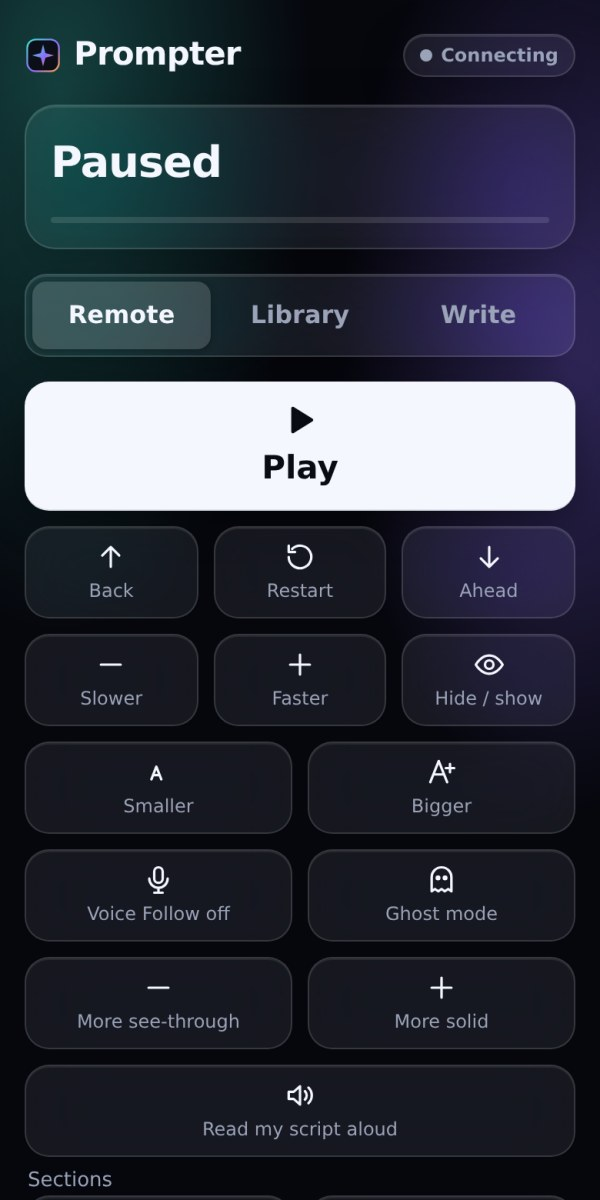
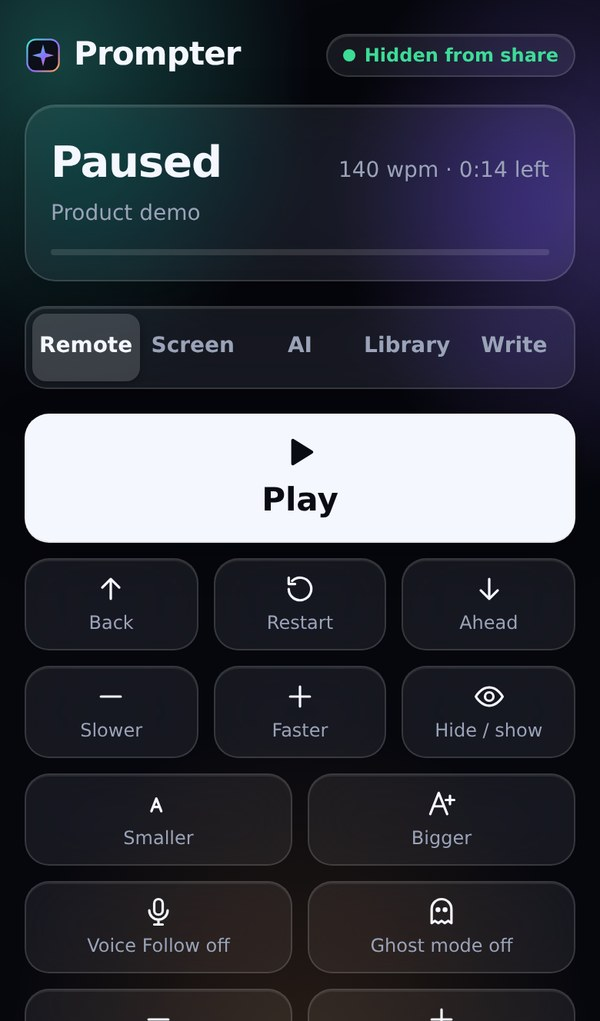
2.5.1: website + README for the AI assistant, screen view and screenshots; chat anchors to newest message

diff --git a/docs/index.html b/docs/index.html
@@ -4,10 +4,10 @@
 <meta charset="utf-8">
 <meta name="viewport" content="width=device-width,initial-scale=1">
 <title>Glass Prompter: a teleprompter under your webcam</title>
-<meta name="description" content="Free see-through teleprompter for Windows and macOS. Sits under your webcam, follows your voice word by word, reads aloud in a natural voice, and stays private on screen share.">
+<meta name="description" content="Free see-through teleprompter for Windows and macOS. Sits under your webcam, follows your voice word by word, reads aloud, and stays private on screen share. Built-in AI assistant that can see your screen, plus live screen view and screenshots on your phone.">
 <meta name="theme-color" content="#06070d">
 <meta property="og:title" content="Glass Prompter">
-<meta property="og:description" content="Read your script. Keep eye contact. A free teleprompter that follows your voice, for Windows and Mac.">
+<meta property="og:description" content="Read your script. Keep eye contact. A free teleprompter that follows your voice, with an AI assistant that can see your screen. For Windows and Mac.">
 <meta property="og:image" content="https://tokunboajayi.github.io/glass-prompter/img/hero.jpg">
 <meta property="og:type" content="website">
 <meta name="twitter:card" content="summary_large_image">
@@ -68,6 +68,8 @@ h2{font-size:clamp(28px,3.6vw,40px);letter-spacing:-.025em;line-height:1.15;marg
 .card{padding:24px}
 .card h3{font-size:17px;margin:14px 0 6px;font-weight:600}
 .card p{margin:0;color:var(--muted);font-size:15px}
+.new{display:inline-block;margin-left:6px;padding:1px 8px;border-radius:999px;font-size:11px;font-weight:600;color:var(--aqua);
+  background:rgba(64,232,208,.12);vertical-align:2px}
 .ic{width:40px;height:40px;border-radius:10px;display:grid;place-items:center;background:rgba(64,232,208,.1);color:var(--aqua)}
 .ic svg{width:22px;height:22px;fill:none;stroke:currentColor;stroke-width:1.75;stroke-linecap:round;stroke-linejoin:round}
 .split{display:grid;grid-template-columns:1fr 1.25fr;gap:48px;align-items:center}
@@ -146,6 +148,9 @@ footer .wrap{display:flex;justify-content:space-between;gap:16px;flex-wrap:wrap}
   <symbol id="i-chart" viewBox="0 0 24 24"><path d="M4 20V10M10 20V4M16 20v-7M22 20H2"/></symbol>
   <symbol id="i-win" viewBox="0 0 24 24"><path d="M3 5.5l7.5-1v7H3zM12 4.3L21 3v8.5h-9zM3 12.5h7.5v7l-7.5-1zM12 12.5h9V21l-9-1.3z" fill="currentColor" stroke="none"/></symbol>
   <symbol id="i-apple" viewBox="0 0 24 24"><path d="M16.5 12.6c0-2.4 2-3.5 2-3.6-1.1-1.6-2.8-1.8-3.4-1.8-1.4-.2-2.8.8-3.5.8s-1.9-.8-3.1-.8C6.9 7.2 5.4 8.1 4.6 9.6c-1.7 2.9-.4 7.3 1.2 9.7.8 1.2 1.8 2.5 3 2.4 1.2 0 1.7-.8 3.1-.8s1.9.8 3.1.8 2.1-1.2 2.8-2.4c.9-1.3 1.3-2.6 1.3-2.7 0 0-2.6-1-2.6-4zM14.2 5.5c.6-.8 1.1-1.9 1-3-.9 0-2.1.6-2.8 1.4-.6.7-1.1 1.8-1 2.9 1.1.1 2.1-.5 2.8-1.3z" fill="currentColor" stroke="none"/></symbol>
+  <symbol id="i-spark" viewBox="0 0 24 24"><path d="M12 3l1.8 6.2L20 11l-6.2 1.8L12 19l-1.8-6.2L4 11l6.2-1.8z"/></symbol>
+  <symbol id="i-screen" viewBox="0 0 24 24"><rect x="3" y="4" width="18" height="12" rx="2"/><path d="M9 20h6M12 16v4"/></symbol>
+  <symbol id="i-camera" viewBox="0 0 24 24"><rect x="3" y="7" width="18" height="13" rx="2.5"/><path d="M8.5 7l1.5-3h4l1.5 3"/><circle cx="12" cy="13.5" r="3.3"/></symbol>
   <symbol id="i-copy" viewBox="0 0 24 24"><rect x="8" y="8" width="12" height="12" rx="2.5"/><path d="M16 8V6.5A2.5 2.5 0 0 0 13.5 4h-7A2.5 2.5 0 0 0 4 6.5v7A2.5 2.5 0 0 0 6.5 16H8"/></symbol>
   <symbol id="i-check" viewBox="0 0 24 24"><path d="M5 12.5l4.5 4.5L19 7.5"/></symbol>
   <symbol id="i-down" viewBox="0 0 24 24"><path d="M12 4v12M6 11l6 6 6-6M5 20h14" fill="none" stroke="currentColor" stroke-width="2" stroke-linecap="round" stroke-linejoin="round"/></symbol>
@@ -156,6 +161,7 @@ footer .wrap{display:flex;justify-content:space-between;gap:16px;flex-wrap:wrap}
     <a class="brand" href="#"><img src="img/icon.svg" alt="">Glass Prompter</a>
     <div class="nav-links">
       <a class="hide-sm" href="#features">Features</a>
+      <a class="hide-sm" href="#ai">AI assistant</a>
       <a class="hide-sm" href="#compare">Compare</a>
       <a class="hide-sm" href="#shortcuts">Shortcuts</a>
       <a href="#download">Download</a>
@@ -168,7 +174,7 @@ footer .wrap{display:flex;justify-content:space-between;gap:16px;flex-wrap:wrap}
   <header class="hero">
     <span class="eyebrow"><i></i><span id="ver">Free for Windows and Mac</span></span>
     <h1>Read your script. Keep eye contact.</h1>
-    <p class="sub">A see-through teleprompter that sits right under your webcam, follows your voice word by word, and stays off the screen share.</p>
+    <p class="sub">A see-through teleprompter that sits right under your webcam, follows your voice word by word, and stays off the screen share. Now with an AI assistant that can see your screen.</p>
     <div class="cta">
       <a id="primary" class="btn primary" href="https://github.com/tokunboajayi/glass-prompter/releases/latest">
         <svg aria-hidden="true"><use href="#i-down"/></svg><span id="primaryText">Download free</span></a>
@@ -191,11 +197,17 @@ footer .wrap{display:flex;justify-content:space-between;gap:16px;flex-wrap:wrap}
       <div class="card"><div class="ic"><svg aria-hidden="true"><use href="#i-ghost"/></svg></div>
         <h3>Ghost mode</h3><p>Clicks pass straight through to the app behind. Pick how see-through it is, from 15% to solid, with <kbd>Ctrl</kbd> <kbd>Alt</kbd> <kbd>[</kbd> <kbd>]</kbd>.</p></div>
       <div class="card"><div class="ic"><svg aria-hidden="true"><use href="#i-shield"/></svg></div>
-        <h3>Private on screen share</h3><p>Hidden from Zoom, Teams, Meet and OBS on Windows. On macOS 15+ it tells you the truth: share a window, not your whole screen.</p></div>
+        <h3>Private on screen share</h3><p>The prompter and every window it opens stay out of Zoom, Teams, Meet, OBS and screenshots on Windows. On macOS 15+ it tells you the truth: share a window, not your whole screen.</p></div>
       <div class="card"><div class="ic"><svg aria-hidden="true"><use href="#i-phone"/></svg></div>
-        <h3>Phone remote</h3><p>Scan a QR code and your phone becomes the remote: play, speed, sections, ghost level, and sending new scripts. PIN protected.</p></div>
+        <h3>Phone remote</h3><p>Scan a QR code and your phone becomes the remote: play, speed, sections, ghost level, new scripts, and a live view of your screen. PIN protected.</p></div>
       <div class="card"><div class="ic"><svg aria-hidden="true"><use href="#i-chart"/></svg></div>
         <h3>Rehearsal coach</h3><p>After each practice run you get your pace, filler words, long pauses, skipped lines and a score you can watch improve.</p></div>
+      <div class="card"><div class="ic"><svg aria-hidden="true"><use href="#i-spark"/></svg></div>
+        <h3>AI assistant <span class="new">New</span></h3><p>Ask anything and get a straight answer. It can look at your screen, search the web, and send its answer to the prompter. Press <kbd>A</kbd>, or use your phone.</p></div>
+      <div class="card"><div class="ic"><svg aria-hidden="true"><use href="#i-screen"/></svg></div>
+        <h3>Your screen on your phone <span class="new">New</span></h3><p>See your computer's screen live on your phone, about every 1.5 seconds. Pinch to zoom, pause, or save a full-size copy.</p></div>
+      <div class="card"><div class="ic"><svg aria-hidden="true"><use href="#i-camera"/></svg></div>
+        <h3>One-key screenshots <span class="new">New</span></h3><p>Press <kbd>S</kbd> to save a full-resolution screenshot to Pictures and copy it. The prompter never appears in it.</p></div>
     </div>
   </div>
 </section>
@@ -215,6 +227,23 @@ footer .wrap{display:flex;justify-content:space-between;gap:16px;flex-wrap:wrap}
   </div>
 </section>
 
+<section id="ai">
+  <div class="wrap split">
+    <div>
+      <h2>An AI that sees what you see</h2>
+      <p class="lead">Stuck on a slide, an error or a question mid-call? Ask. Claude looks at your screen and your script, and answers in seconds.</p>
+      <ul class="points">
+        <li><b>Answers anything.</b> Work, study, code, numbers, writing, the news. It searches the web when the answer depends on recent facts.</li>
+        <li><b>Sees your screen.</b> Keep <i>Include my screen</i> ticked and it reads what's in front of you. Glass Prompter's own windows never appear in that picture.</li>
+        <li><b>Straight to the prompter.</b> Tap <i>Send to prompter</i> and read the answer out, word for word.</li>
+        <li><b>On your PC or your phone.</b> Press <kbd>A</kbd> on the prompter, or open the AI tab on the phone remote.</li>
+        <li><b>Your key, your data.</b> Bring your own Anthropic API key. It stays on your computer, never reaches the phone, and nothing is sent until you press Send.</li>
+      </ul>
+    </div>
+    <img src="img/assistant.jpg" width="2400" height="1400" alt="The AI assistant window over a presentation slide, suggesting what to say about Q3 revenue and offering Send to prompter" loading="lazy">
+  </div>
+</section>
+
 <section id="compare">
   <div class="wrap">
     <h2>How it compares</h2>
@@ -228,6 +257,7 @@ footer .wrap{display:flex;justify-content:space-between;gap:16px;flex-wrap:wrap}
           <tr><td>Mic drops mid-take</td><td class="us">Reconnects by itself</td><td>Often freezes</td><td>Varies</td></tr>
           <tr><td>Screen share status</td><td class="us">Honest badge per OS</td><td>"Invisible" claims</td><td>Often undocumented on macOS 15+</td></tr>
           <tr><td>Natural read-aloud</td><td class="us">Built in, offline</td><td>Rare</td><td>Rare</td></tr>
+          <tr><td>AI assistant</td><td class="us">Sees your screen, answers anything, on PC and phone</td><td>Script rewriting at most</td><td>Rare</td></tr>
           <tr><td>Your scripts</td><td class="us">Daily backups and export</td><td>Lost-script reports are common</td><td>Varies</td></tr>
           <tr><td>Price</td><td class="us">Free</td><td>Subscription</td><td>$30 to $40</td></tr>
         </tbody>
@@ -238,14 +268,16 @@ footer .wrap{display:flex;justify-content:space-between;gap:16px;flex-wrap:wrap}
 
 <section>
   <div class="wrap split">
-    <img src="img/phone.jpg" width="600" height="1200" alt="The phone remote: play, speed, ghost level, sections and read aloud" loading="lazy" style="max-width:340px;justify-self:center">
+    <img src="img/phone-ai.jpg" width="1700" height="1250" alt="Two phones: the Screen tab showing the computer's slide live, and the AI tab answering what to say about it" loading="lazy">
     <div>
       <h2>Your phone is the remote</h2>
       <p class="lead">No app to install. Scan the QR code on your computer, enter the PIN, and control everything from across the room.</p>
       <ul class="points">
         <li><b>Live state.</b> Playing, listening, pace and time left update instantly.</li>
+        <li><b>See your screen.</b> The Screen tab mirrors your computer live. Save a full-size screenshot or tap <i>Ask AI about this</i>.</li>
+        <li><b>Chat with the AI.</b> Ask anything from across the room, then send the answer to the prompter.</li>
         <li><b>Write and send scripts.</b> Type on your phone or upload a .docx, .md or .txt file.</li>
-        <li><b>Stays local.</b> It runs over your Wi-Fi and never touches the internet.</li>
+        <li><b>Stays local.</b> Phone and computer talk over your Wi-Fi only, protected by a PIN.</li>
       </ul>
     </div>
   </div>
@@ -322,6 +354,8 @@ footer .wrap{display:flex;justify-content:space-between;gap:16px;flex-wrap:wrap}
         <div class="krow">Next section<span><kbd>PgDn</kbd></span></div>
         <div class="krow">Screen-share privacy<span><kbd>C</kbd></span></div>
         <div class="krow">Mirror text<span><kbd>M</kbd></span></div>
+        <div class="krow">AI assistant<span><kbd>A</kbd></span></div>
+        <div class="krow">Screenshot<span><kbd>S</kbd></span></div>
       </div>
     </div>
   </div>
@@ -335,9 +369,13 @@ footer .wrap{display:flex;justify-content:space-between;gap:16px;flex-wrap:wrap}
     <details><summary>My Mac says the app can't be opened.</summary>
       <p>The first time, right-click Glass Prompter in Applications and choose <b>Open</b>. On macOS 15 or later, open System Settings, go to Privacy &amp; Security, and click <b>Open Anyway</b>. You only do this once.</p></details>
     <details><summary>Can people on the call see the prompter?</summary>
-      <p>On Windows 10 (2004+) and 11 it's excluded from screen sharing and recordings. macOS 15 and later lets screen recorders capture every window, so on a Mac share a single window or app instead of the whole screen. The badge on the prompter always shows the real state.</p></details>
+      <p>On Windows 10 (2004+) and 11, the prompter and every window Glass Prompter opens (settings, the AI assistant, menus, message boxes, even the file picker) are excluded from screen sharing, recordings and screenshots. macOS 15 and later lets screen recorders capture every window, so on a Mac share a single window or app instead of the whole screen. The badge on the prompter always shows the real state.</p></details>
     <details><summary>Does my voice or script go anywhere?</summary>
-      <p>No. Voice recognition and the read-aloud voice run on your computer. Scripts live in a local library. The only internet request is a once-a-day check for a new version on GitHub, which you can turn off.</p></details>
+      <p>No. Voice recognition and the read-aloud voice run on your computer. Scripts live in a local library. The only internet requests are a once-a-day check for a new version on GitHub (you can turn it off) and, only if you set up the AI assistant, the messages you choose to send to Anthropic.</p></details>
+    <details><summary>How do I turn on the AI assistant, and what does it cost?</summary>
+      <p>Create an API key at <a href="https://console.anthropic.com/settings/keys">console.anthropic.com</a> and paste it into <b>Settings &rsaquo; AI assistant</b>. Glass Prompter itself stays free. Anthropic bills your account per question (typically a few cents or less with a screenshot), and web searches cost a little extra. The key stays on your computer.</p></details>
+    <details><summary>What does the AI see?</summary>
+      <p>Only what you send. When <i>Include my screen</i> is ticked, it gets one screenshot with your question; untick it to send text only. Glass Prompter's own windows are never in that screenshot. It also sees the script on your prompter so it can help with it. Close anything private, like passwords, before asking about your screen.</p></details>
     <details><summary>Is it really free?</summary>
       <p>Yes. No account, no trial, no watermark. It's also open source under the <a href="https://github.com/tokunboajayi/glass-prompter/blob/main/LICENSE">MIT License</a>, so you can read every line of code.</p></details>
   </div>
@@ -417,7 +455,7 @@ footer .wrap{display:flex;justify-content:space-between;gap:16px;flex-wrap:wrap}
     .then(function (r) { return r.ok ? r.json() : Promise.reject(r.status); })
     .then(function (rel) {
       var v = (rel.tag_name || "").replace(/^v/, "");
-      document.getElementById("ver").textContent = "Version " + v + " · free for Windows and Mac";
+      document.getElementById("ver").textContent = "Version " + v + " · new: AI assistant that sees your screen";
       var pick = {};
       (rel.assets || []).forEach(function (a) {
         if (/\.exe$/i.test(a.name)) pick.exe = a;

diff --git a/tools/phone_shots.js b/tools/phone_shots.js
@@ -1,0 +1,37 @@
+// Website images of the phone remote (Remote, Screen and AI tabs). Network calls for the screen and the AI are
+// mocked so the pictures are reproducible:  node tools/phone_shots.js PORT OUTDIR SCREEN_JPG
+const { chromium, devices } = require('playwright');
+const fs = require('fs');
+const [port, out, screenJpg] = process.argv.slice(2);
+const sleep = (ms) => new Promise(r => setTimeout(r, ms));
+(async () => {
+  const browser = await chromium.launch();
+  const ctx = await browser.newContext({ ...devices['iPhone 13'], deviceScaleFactor: 2 });
+  const page = await ctx.newPage();
+  const shot = fs.readFileSync(screenJpg);
+  await page.route('**/api/v1/screen.jpg*', r => r.fulfill({ status: 200, contentType: 'image/jpeg', body: shot }));
+  await page.route('**/api/v1/features', r => r.fulfill({ status: 200, contentType: 'application/json',
+    body: JSON.stringify({ screen: true, ai: true, ai_model: 'claude-sonnet-5-5' }) }));
+  const replies = [
+    "Lead with the headline: revenue grew 18% to $5.4M, the best quarter on the chart. Then explain why: subscriptions are now 62% of revenue and churn fell 9%.",
+    "Q3 was our strongest quarter yet: revenue up 18% to $5.4 million, driven by subscriptions."];
+  let n = 0;
+  await page.route('**/api/v1/ai/chat', r => r.fulfill({ status: 200, contentType: 'application/json',
+    body: JSON.stringify({ reply: replies[Math.min(n++, replies.length - 1)], saw_screen: true }) }));
+  await page.goto(`http://127.0.0.1:${port}/?k=246810`);
+  await sleep(1500);
+  // show the Windows/macOS 14 badge (this render runs headless on Linux, where hiding isn't available)
+  const badge = () => page.evaluate(() => { const p = document.getElementById('conn');
+    p.className = 'pill ok'; p.lastElementChild.textContent = 'Hidden from share'; });
+  await badge();
+  await page.screenshot({ path: out + '/phone_remote.png' });
+  await page.click('[data-tab="screen"]'); await sleep(1500);
+  await badge(); await page.screenshot({ path: out + '/phone_screen.png' });
+  await page.click('[data-tab="ai"]'); await sleep(600);
+  for (const q of ['What should I say about this slide?', 'Give me one line to open with.']) {
+    await page.fill('#aiText', q); await page.click('#aiSend'); await sleep(900);
+  }
+  await page.evaluate(() => window.scrollTo(0, 0));
+  await badge(); await page.screenshot({ path: out + '/phone_ai.png' });
+  await browser.close();
+})().catch(e => { console.error(e); process.exit(2); });

diff --git a/glassprompter/server/static/app.js b/glassprompter/server/static/app.js
@@ -291,7 +291,7 @@
       const f = await api("/features");
       $("aiScreen").disabled = !f.screen;
       if (!f.screen) $("aiScreen").checked = false;
-      $("aiInfo").textContent = f.ai ? "Ask about your screen or your script"
+      $("aiInfo").textContent = f.ai ? "Ask anything. It can see your screen and search the web."
                                      : "Add your Anthropic API key in Settings \u203a AI assistant on your computer";
     } catch (e) { quiet(e); }
   }

diff --git a/tools/website_images_ai.py b/tools/website_images_ai.py
@@ -1,0 +1,61 @@
+"""Compose the website's AI / phone images (docs/img/assistant.jpg, phone-ai.jpg, phone.jpg).
+
+    GP_SHOTS_PRIVATE=1 QT_SCALE_FACTOR=2 QT_QPA_PLATFORM=offscreen python tools/shots.py shots2x
+    (phone shots: run the app on a test profile, then node tools/phone_shots.js PORT shots/phone docs/img/screen-demo.jpg)
+    python tools/website_images_ai.py
+"""
+from PIL import Image, ImageDraw, ImageFilter
+
+S = "shots/phone/"
+
+
+def backdrop(W, H):
+    im = Image.new("RGB", (W, H), (10, 12, 22))
+    glow = Image.new("RGB", (W, H), (0, 0, 0))
+    d = ImageDraw.Draw(glow)
+    for cx, cy, r, col in ((0.15, 0.1, 0.5, (64, 232, 208)), (0.9, 0.3, 0.45, (139, 108, 255)),
+                           (0.5, 1.1, 0.55, (255, 166, 77))):
+        d.ellipse([W * cx - W * r, H * cy - W * r, W * cx + W * r, H * cy + W * r], fill=tuple(int(c * .22) for c in col))
+    glow = glow.filter(ImageFilter.GaussianBlur(W // 10))
+    return Image.composite(glow, im, Image.new("L", (W, H), 255)).point(lambda v: v + 10)
+
+
+def rounded(img, r):
+    m = Image.new("L", img.size, 0)
+    ImageDraw.Draw(m).rounded_rectangle([0, 0, *img.size], r, fill=255)
+    img = img.convert("RGBA")
+    img.putalpha(m)
+    return img
+
+
+def shadow_paste(base, img, xy, r=28, blur=40):
+    sh = Image.new("RGBA", (img.width + blur * 4, img.height + blur * 4), (0, 0, 0, 0))
+    ImageDraw.Draw(sh).rounded_rectangle([blur * 2, blur * 2 + 20, blur * 2 + img.width, blur * 2 + img.height + 20],
+                                         r, fill=(0, 0, 0, 170))
+    base.alpha_composite(sh.filter(ImageFilter.GaussianBlur(blur)), (xy[0] - blur * 2, xy[1] - blur * 2))
+    base.alpha_composite(rounded(img, r), xy)
+
+
+p = Image.open(S + "phone_remote.png").convert("RGB")
+p.resize((600, int(p.height * 600 / p.width)), Image.LANCZOS).save("docs/img/phone.jpg", quality=88)
+
+W, H = 1700, 1250
+base = backdrop(W, H).convert("RGBA")
+a, b = Image.open(S + "phone_screen.png"), Image.open(S + "phone_ai.png")
+sc = 1080 / a.height
+a = a.resize((int(a.width * sc), 1080), Image.LANCZOS)
+b = b.resize(a.size, Image.LANCZOS)
+x0 = (W - 2 * a.width - 90) // 2
+shadow_paste(base, a, (x0, (H - a.height) // 2), 48)
+shadow_paste(base, b, (x0 + a.width + 90, (H - a.height) // 2), 48)
+base.convert("RGB").save("docs/img/phone-ai.jpg", quality=86)
+
+W, H = 2400, 1400
+base = Image.new("RGBA", (W, H))
+scr = Image.open("docs/img/screen-demo.jpg").convert("RGBA").resize((W, W * 800 // 1280), Image.LANCZOS)
+base.alpha_composite(scr.crop((0, 0, W, H)))
+win = Image.open("shots2x/10_assistant.png").convert("RGBA")
+win = win.resize((int(win.width * 1180 / win.height), 1180), Image.LANCZOS)
+shadow_paste(base, win, (W - win.width - 90, (H - win.height) // 2), 26, 50)
+base.convert("RGB").save("docs/img/assistant.jpg", quality=86)
+print("saved docs/img/phone.jpg, phone-ai.jpg, assistant.jpg")

diff --git a/tools/shots.py b/tools/shots.py
@@ -134,18 +134,24 @@ def run():
     a = make_assistant(ctl)
     a.resize(560, 680)
     a.show()
+    a.empty.hide()
     a.empty.deleteLater()
     a.empty = None
-    a._bubble("user", "What does this error on my screen mean?")
-    a._bubble("assistant", "It's a port conflict: another copy of the app is already using port 8765, so the phone "
-                           "remote can't start.\n\nFix: close the other copy (tray icon \u203a Quit), then open "
-                           "Phone remote again.", reply=True)
-    a._bubble("user", "Write me a 20-second intro for my demo.")
-    a._bubble("note", "Thinking\u2026")
+    a._bubble("user", "What should I say about this slide?")
+    a._bubble("assistant", "Lead with the headline: revenue grew 18% to $5.4M, the best quarter on the chart.\n\n"
+                           "Then explain why: subscriptions are now 62% of revenue and churn fell 9%, so the growth "
+                           "should hold next quarter.", reply=True)
+    a._bubble("user", "Give me a 15-second version to read out.")
+    a._bubble("assistant", "Q3 was our strongest quarter yet. Revenue grew 18% to $5.4 million, driven by "
+                           "subscriptions, which are now 62% of the business, while churn fell 9%.", reply=True)
     a.info.setText("Claude Sonnet 5.5 \u00b7 answers anything, can search the web and see your screen")
     a.send_btn.setEnabled(True)
     app.processEvents()
-    QTimer.singleShot(0, lambda: None)
+    import time as _t
+    for _ in range(6):                               # let layout settle and the auto-scroll timer fire
+        _t.sleep(0.05)
+        app.processEvents()
+    a.scroll.verticalScrollBar().setValue(a.scroll.verticalScrollBar().maximum())
     app.processEvents()
     grab(a, "10_assistant.png")
     a.close()

diff --git a/glassprompter/ui/assistant.py b/glassprompter/ui/assistant.py
@@ -144,7 +144,7 @@ def make_assistant(controller):
             else:
                 h.addWidget(box, 6)
                 h.addStretch(1)
-            self.log_lay.insertWidget(self.log_lay.count() - 1, wrap)
+            self.log_lay.addWidget(wrap)                 # stretch sits on top: chat hugs the bottom
             QTimer.singleShot(30, lambda: self.scroll.verticalScrollBar().setValue(
                 self.scroll.verticalScrollBar().maximum()))
             return wrap
@@ -178,6 +178,7 @@ def make_assistant(controller):
                 except Exception as e:                # noqa: BLE001 - answer without the screen
                     self._bubble("note", "Couldn't capture the screen (%s). Answering without it." % e)
             if self.empty is not None:
+                self.empty.hide()
                 self.empty.deleteLater()
                 self.empty = None
             self.text.clear()
@@ -215,8 +216,8 @@ def make_assistant(controller):
 
         def clear(self):
             self.history = []
-            while self.log_lay.count() > 1:
-                it = self.log_lay.takeAt(0)
+            while self.log_lay.count() > 1:            # keep the stretch at index 0
+                it = self.log_lay.takeAt(1)
                 if it.widget():
                     it.widget().deleteLater()
             self.empty = self._bubble("note", "New chat. Ask anything.")

diff --git a/glassprompter/__init__.py b/glassprompter/__init__.py
@@ -1,7 +1,7 @@
 """Glass Prompter - a see-through teleprompter that sits under your webcam
 and stays hidden from screen sharing."""
 
-__version__ = "2.5.0"
+__version__ = "2.5.1"
 APP_NAME = "Glass Prompter"
 APP_ID = "GlassPrompter"
 ORG = "Glass Prompter"

diff --git a/README.md b/README.md
@@ -6,6 +6,7 @@
 
 **A see-through teleprompter that sits right under your webcam.**
 It follows your voice word by word, reads your script aloud, and stays off the screen share.
+**New in 2.5:** an AI assistant that can see your screen and answer anything, plus your screen live on your phone.
 Free and open source (MIT) for Windows and Mac.
 
 ### [Download from the website &rarr;](https://tokunboajayi.github.io/glass-prompter/)
@@ -26,7 +27,7 @@ Free and open source (MIT) for Windows and Mac.
 1. [Install](#install): [Windows](#windows) · [Mac](#mac) · [Linux](#linux-from-source)
 2. [First five minutes](#first-five-minutes)
 3. [Keyboard shortcuts](#keyboard-shortcuts)
-4. [Phone remote](#phone-remote)
+4. [Phone remote, screen view and AI assistant](#phone-remote)
 5. [Updates, uninstall and your data](#updates-uninstall-and-your-data)
 6. [Troubleshooting](#troubleshooting)
 7. [For developers](#for-developers)
@@ -164,6 +165,8 @@ From the phone you can:
 It works over your Wi-Fi only and never goes through the internet. On Windows, click **Allow** on the firewall prompt the first time.
 
 ### Screen view and AI assistant
+
+<img src="docs/img/assistant.jpg" width="820" alt="The AI assistant window over a slide, suggesting what to say">
 
 - **Screen tab:** your computer's screen, refreshed about every 1.5 seconds. Tap it for full size and pinch to zoom. On Windows the prompter never appears in it. On a Mac, allow Glass Prompter under **System Settings &rsaquo; Privacy & Security &rsaquo; Screen Recording**. Turn it off in **Settings &rsaquo; Privacy &rsaquo; Phone can view my screen**.
 - **AI assistant on the computer:** press <kbd>A</kbd> on the prompter or choose **&#8943; &rsaquo; AI assistant**. Same chat, on your PC.

diff --git a/CHANGELOG.md b/CHANGELOG.md
@@ -1,5 +1,14 @@
 # Changelog
 
+## 2.5.1 - 2026-10-06
+Polish for the AI assistant, and a refreshed website.
+
+- The AI chat window now keeps the newest message at the bottom, like any messaging app, and the welcome tip
+  disappears as soon as you ask your first question.
+- The phone's AI tab says what the assistant can do: answer anything, see your screen, search the web.
+- Website: new AI assistant section, phone screen-view images, updated shortcuts (<kbd>A</kbd>, <kbd>S</kbd>),
+  comparison table and FAQ (how to turn on the AI, what it costs, what it sees).
+
 ## 2.5.0 - 2026-10-05
 Your phone can now see your computer screen, and an AI assistant can help you with what's on it.
 

diff --git a/CONTRIBUTING.md b/CONTRIBUTING.md
@@ -55,7 +55,7 @@ glassprompter/
   ui/                  prompter overlay, glass toolkit (menu, tooltips, dialogs), icons, design tokens
   fonts/               Inter (SIL OFL), bundled so type looks the same on every OS
 tests/                 pytest
-tools/                 shots.py (render every screen), marketing_images.py, self-tests
+tools/                 shots.py (render every screen), marketing_images.py, website_images_ai.py, phone_shots.js, self-tests
 docs/                  the website (GitHub Pages)
 packaging/             PyInstaller spec, Inno Setup, build scripts, winget + Homebrew manifests
 skills/                a guide for AI assistants writing scripts for the prompter
